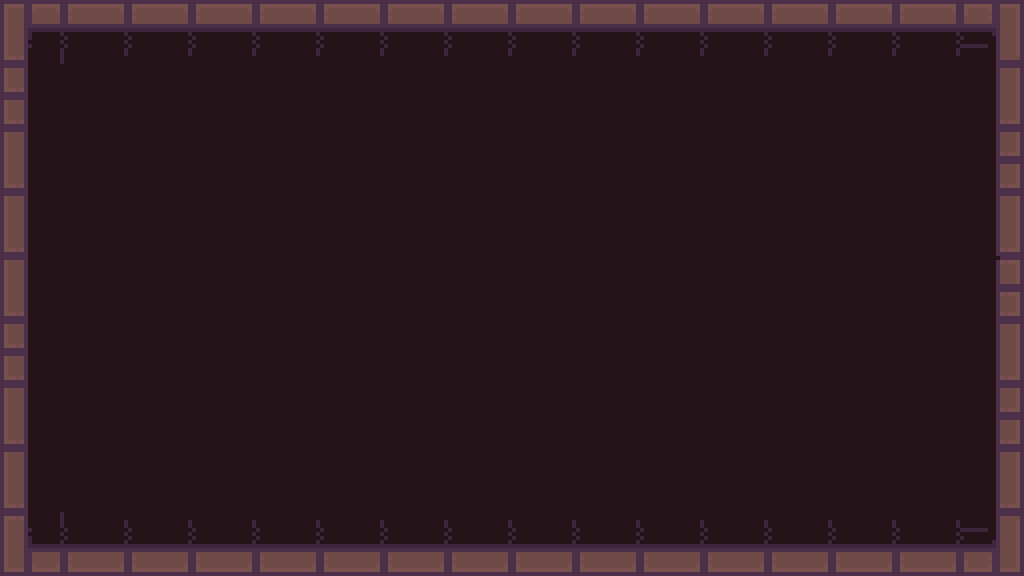
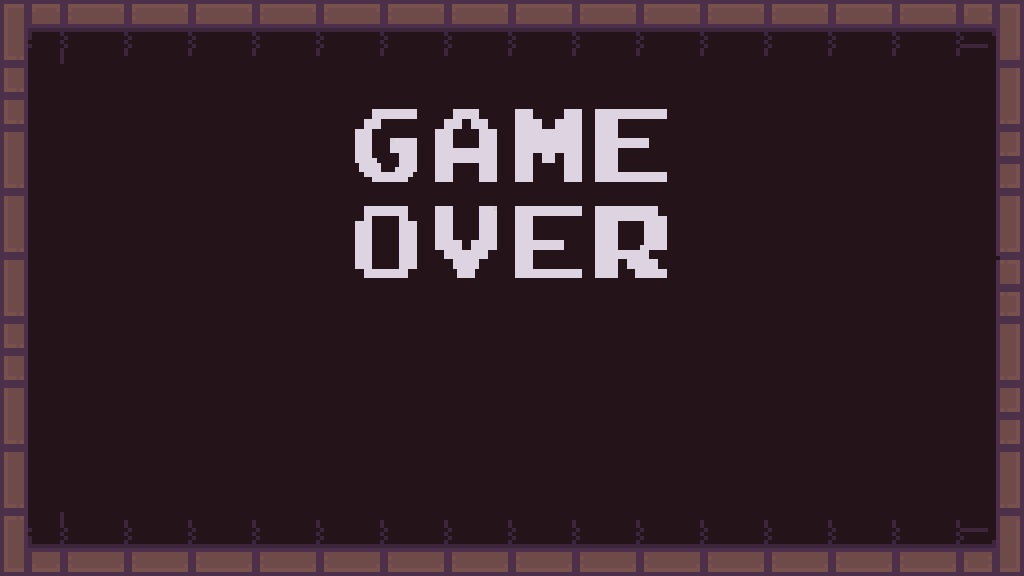
fffffd

Changed region(s): [[0.3438, 0.1875, 0.6562, 0.5]]

diff --git a/dungeon.js b/dungeon.js
@@ -7,8 +7,11 @@ canvas.height = 576
 const image = new Image()
 image.src = './img/map.png'
 
-const menuImage = new Image()
-menuImage.src = './img/mapover.png'
+const gamewinImage = new Image()
+gamewinImage.src = './img/mapwin.png'
+
+const gameoverImage = new Image()
+gameoverImage.src = './img/mapover.png'
 
 const restartImage = new Image()
 restartImage.src = './img/reset1.png'
@@ -115,7 +118,7 @@ const Heard = new Objects({
 
 const restart = new Objects({
     position: {
-        x: 390,
+        x: 375,
         y: 350
     },
     image: restartImage,
@@ -138,7 +141,15 @@ const gameover = new Sprite({
         x: 0,
         y: 0
     },
-    image: menuImage
+    image: gameoverImage
+}) 
+
+const gamewin = new Sprite({
+    position: {
+        x: 0,
+        y: 0
+    },
+    image: gamewinImage
 }) 
 //нажата ли кнопка
 const keyss = {
@@ -175,7 +186,7 @@ function animate(){
     }
     if (player.hp > 4 ){
         ctx.clearRect(0, 0, 1024, 576)
-        gameOver()
+        gameWin()
         return
     }
     if (coins.length === 0){
@@ -186,7 +197,8 @@ function animate(){
     if (rectangularCollision({
         rectangle1: player,
         rectangle2: Coin
-    })){if (doors_arr.length === 0){coins.splice(0, coins.length)}
+    })){
+        if (doors_arr.length === 0){coins.splice(0, coins.length)}
     }
     background.draw()
     audio.play()
@@ -718,24 +730,18 @@ window.addEventListener('keyup', (e) => {
 }
 
 function gameWin(){
-    gameover.draw()
+    gamewin.draw()
     restart.draw()
     Restart()
     ctx.fillStyle = 'white';
     ctx.font = "bold 40px Papyrus";
-    ctx.fillText(ontime, 460, 300);
-    ctx.fillStyle = 'white';
-    ctx.font = "bold 87px Papyrus";
-    ctx.fillText('GAME WIN', 220, 576 / 4 + 50);
+    ctx.fillText(ontime, 460, 330);
 }
 
 function gameOver(){
     gameover.draw()
     restart.draw()
     Restart()
-    ctx.fillStyle = '#CDBECD ';
-    ctx.font = "bold 87px Papyrus";
-    ctx.fillText('GAME OVER', 190, 576 / 4 + 50);
 }
 
 var sec, now, timer, mins = 0
